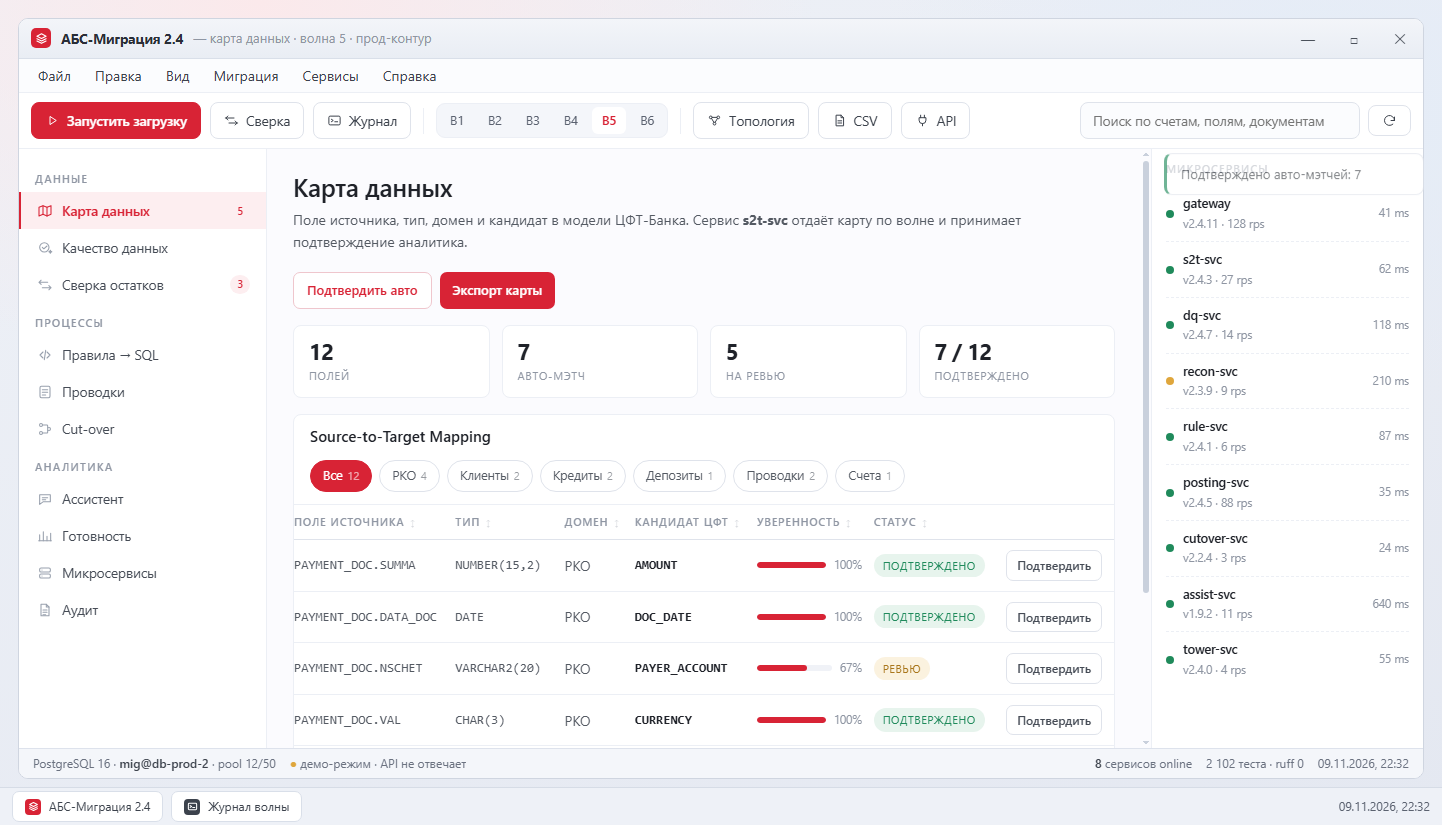
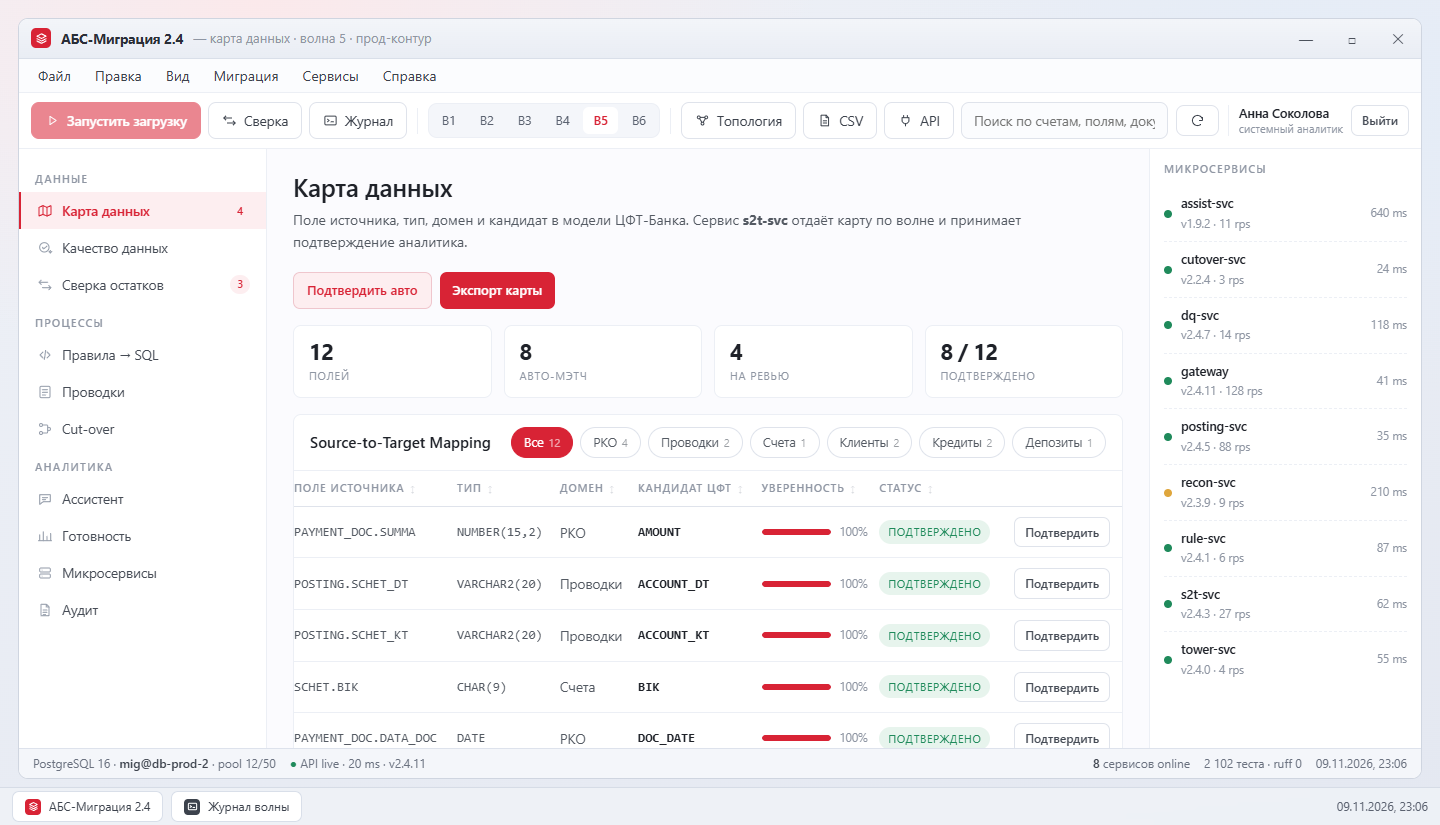
Панель инструментов в одну строку и свежие кадры всех экранов
Чип пользователя уложен в две колонки, поджаты отступы и поле поиска — панель больше не вылезает за окно. Кадры и гифки пересняты на боевом API через Playwright.

diff --git a/abs-migration-desktop.html b/abs-migration-desktop.html
@@ -78,7 +78,7 @@
   .dropdown .sep{height:1px;background:var(--line-soft);margin:5px 2px}
   .dropdown .key{color:var(--muted);font-size:12px}
 
-  .toolbar{height:56px;flex:0 0 56px;display:flex;align-items:center;gap:9px;padding:0 12px;background:#fff;border-bottom:1px solid var(--line-soft)}
+  .toolbar{height:56px;flex:0 0 56px;display:flex;align-items:center;gap:7px;padding:0 12px;background:#fff;border-bottom:1px solid var(--line-soft)}
   .tb-btn{display:inline-flex;align-items:center;gap:7px;padding:7px 13px;border-radius:8px;border:1px solid var(--line);background:#fff;font-size:13.5px;color:#3c424c;white-space:nowrap}
   .tb-btn:hover{border-color:#e6bcc2;color:var(--red)}
   .tb-btn.primary{background:var(--red);border-color:var(--red);color:#fff;font-weight:600}
@@ -88,8 +88,8 @@
   .waves{display:flex;gap:4px;padding:3px;background:#f4f6fa;border:1px solid var(--line-soft);border-radius:9px}
   .wave{font-size:12.5px;padding:4px 10px;border-radius:6px;color:#5b6270}
   .wave.on{background:#fff;color:var(--red);font-weight:600;box-shadow:none}
-  .tb-field{display:flex;align-items:center;gap:8px;margin-left:auto}
-  .tb-field input{border:1px solid var(--line);border-radius:8px;padding:7px 12px;font-size:13.5px;width:280px;background:#fbfcfe}
+  .tb-field{display:flex;align-items:center;gap:8px;margin-left:auto;flex:0 1 auto;min-width:0}
+  .tb-field input{border:1px solid var(--line);border-radius:8px;padding:7px 12px;font-size:13.5px;width:280px;max-width:100%;min-width:130px;background:#fbfcfe}
 
   .body{flex:1;display:grid;grid-template-columns:248px 1fr 272px;min-height:0;background:#fbfbfe}
   .rail{background:#fff;border-right:1px solid var(--line-soft);padding:10px 0 14px;overflow:auto}
@@ -275,10 +275,11 @@
   .loader-bar{width:100%;height:4px;border-radius:999px;background:#f0f2f7;overflow:hidden}
   .loader-bar i{display:block;height:100%;width:38%;background:var(--red);border-radius:999px;animation:slide 1.1s ease-in-out infinite}
   @keyframes slide{0%{transform:translateX(-110%)}100%{transform:translateX(320%)}}
-  .userchip{display:flex;align-items:center;gap:8px;padding-left:10px;border-left:1px solid var(--line-soft);margin-left:2px}
+  .userchip{display:grid;grid-template-columns:auto auto;align-items:center;column-gap:8px;padding-left:10px;border-left:1px solid var(--line-soft);margin-left:2px;flex:0 0 auto}
   .userchip.hidden{display:none}
-  .uchip-name{font-size:12.5px;color:var(--ink);font-weight:600;line-height:1.2}
-  .uchip-role{font-size:11px;color:var(--muted);line-height:1.2}
+  .uchip-name{grid-column:1;grid-row:1;font-size:12.5px;color:var(--ink);font-weight:600;line-height:1.2;white-space:nowrap}
+  .uchip-role{grid-column:1;grid-row:2;font-size:11px;color:var(--muted);line-height:1.2;white-space:nowrap}
+  .userchip .btn{grid-column:2;grid-row:1 / span 2}
 
   .chat{display:flex;flex-direction:column;gap:10px;margin-bottom:12px;max-height:340px;overflow:auto;padding-right:4px}
   .msg{border-radius:10px;padding:10px 13px;font-size:13.5px;line-height:1.55;max-width:88%}
